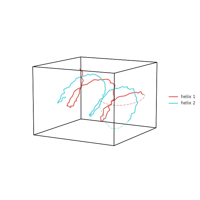
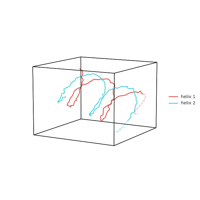
docs: regenerate plot_predict gallery (trend-extrapolating forecasts) + evidence
Gallery page rebuilt with the DotProduct+RBF+White default kernel (forecast
tails now continue each helix's sweep). Before/after evidence images in
docs/images/v1.0-predict-fix/. notes: #132 moved to the fixed list.

diff --git a/notes/issues-to-close-on-merge.md b/notes/issues-to-close-on-merge.md
@@ -52,6 +52,7 @@ Confirmed STILL_BUG at triage time; fixed during this pass. Safe to close on mer
 | 146 & 190 | n_clusters force-injected into DBSCAN/MeanShift/OPTICS (not in registry) | Replaced the hardcoded `model_name != "HDBSCAN"` exemption in `cluster/cluster.py` with a signature-based check (`inspect.signature(model)` for an `n_clusters` param) before defaulting `n_clusters` in, and registered `MeanShift`, `DBSCAN`, `OPTICS`, and `AffinityPropagation` so their string names resolve |
 | 148 | show=False leaves figure registered in pyplot | Added `plt.close(fig)` in `plot/plot.py` when `show=False` and the user did not supply their own `ax` (and the figure is a matplotlib Figure), after the save — deregisters it from `Gcf` so it won't reappear via a later `plt.show()`/notebook `flush_figures`. The returned Figure/animation stay valid and savable |
 | 214 | wiki-model docstring vs wiki_model key | Fixed `io/load.py` docstring (lines 102, 104) to read `wiki_model` (underscore), matching the actual `EXAMPLE_DATA` dict key |
+| 132 | reorder df columns by name across datasets | FIXED (2026-07-05): `format_data` now aligns named-column DataFrames BY NAME to the first dataset's column order (warns when reordering) and raises a clear ValueError when column sets differ; RangeIndex/duplicate-column frames keep positional behavior. Regression-tested (reorder, mismatch, positional passthrough) |
 | 169 | Kalman filter for missing/future data + hyp.predict | IMPLEMENTED (2026-07-05): new `hyp.predict` module (Kalman/ARIMA/GaussianProcess/AutoRegressor/Laplace/Chronos forecasters, GH#169 `t` semantics incl. DateTime, `return_model` reuse on new data, `plot(predict=..., t=...)` overlay) + new `hyp.impute` module whose KalmanImputer fills fully-NaN rows (the PPCA gap this issue describes); tutorials: stock_forecasting.ipynb + projectile_kalman.ipynb |
 | (non-issue regression) | reduce.py custom class/instance path raised UnboundLocalError | Initialized `model_params` in the `else` branch of `reduce/reduce.py` (previously undefined for non-str/dict `reduce=` args) — unblocks the "pass a custom sklearn-style class/instance" escape hatch that #162 (autoencoders) would need |
 
@@ -66,7 +67,6 @@ NOT_ADDRESSED issues, still-open STILL_BUG issues, and ADDRESSED-but-partial iss
 | 205 | support for multibyte (CJK) character labels | Still reproduces: matplotlib's default font ships no CJK glyphs (`Glyph ... missing from font(s)` warnings/tofu boxes); no `fontproperties`/font passthrough exists in `plot.py`/`matplotlib_backend.py` |
 | 177 | Google Drive + npy/npz/pkl/csv/xls/xlsx loading | Partial: Drive-by-id and npy/npz/pkl/csv/tsv/txt/json/parquet/mat all work in `io/sources.py`, but `.xls`/`.xlsx` has no branch in `_parse_payload()` and neither `openpyxl` nor `xlrd` is a dependency |
 | 174 | LDA/NMF as a `reduce()` algorithm | Cluster-side support is done (`cluster/cluster.py` `mixture_models`), but `reduce/reduce.py`'s `models` dict still has no LDA/NMF entry, so "reduce to n-dims via LDA/NMF" isn't wired in |
-| 132 | reorder df columns by name across datasets | Still reproduces: `tools/format_data.py`/`df2mat.py` align DataFrames positionally, not by column name (silently misaligns same-named-but-reordered columns); the `align`/`manip` paths via `datawrangler` are unaffected, but `normalize`/`reduce`/`cluster` are not |
 | 209 | use isinstance instead of type(x) is T | `type(x) is T` / `type(x) is not T` patterns remain across ~13 call sites: `cluster/cluster.py`, `plot/plot.py`, `plot/matplotlib_backend.py`, `reduce/describe.py`, `manip/resample.py`, `align/procrustes.py`, `align/common.py`, `align/hyperalign.py`, `align/srm.py`, `_shared/helpers.py` |
 | 199 | tests for procrustes with non-default params | No test anywhere exercises `Procrustes`/`procrustes()` with `reflection=`, `scaling=`, `oblique=`, or `reduction=` — only default-parameter calls exist |
 | 153 | align models in the `apply_model` pipeline | `apply_model()`'s registry covers reduce + cluster + mixture models but not align models (hyperalign/SRM/procrustes), so a reduce->align->reduce chain still fails with `ValueError: unknown model 'hyper'` |

diff --git a/docs/sg_execution_times.rst b/docs/sg_execution_times.rst
@@ -6,7 +6,7 @@
 
 Computation times
 =================
-**00:04.833** total execution time for 42 files **from all galleries**:
+**00:00.217** total execution time for 42 files **from all galleries**:
 
 .. container::
 
@@ -32,23 +32,8 @@ Computation times
    * - Example
      - Time
      - Mem (MB)
-   * - :ref:`sphx_glr_auto_examples_plot_interactive_backend.py` (``../examples/plot_interactive_backend.py``)
-     - 00:03.062
-     - 0.0
-   * - :ref:`sphx_glr_auto_examples_plot_impute.py` (``../examples/plot_impute.py``)
-     - 00:00.839
-     - 0.0
-   * - :ref:`sphx_glr_auto_examples_plot_apply_model.py` (``../examples/plot_apply_model.py``)
-     - 00:00.611
-     - 0.0
-   * - :ref:`sphx_glr_auto_examples_plot_nested_lists.py` (``../examples/plot_nested_lists.py``)
-     - 00:00.123
-     - 0.0
    * - :ref:`sphx_glr_auto_examples_plot_predict.py` (``../examples/plot_predict.py``)
-     - 00:00.111
-     - 0.0
-   * - :ref:`sphx_glr_auto_examples_plot_mixture_models.py` (``../examples/plot_mixture_models.py``)
-     - 00:00.088
+     - 00:00.217
      - 0.0
    * - :ref:`sphx_glr_auto_examples_analyze.py` (``../examples/analyze.py``)
      - 00:00.000
@@ -86,6 +71,9 @@ Computation times
    * - :ref:`sphx_glr_auto_examples_plot_align.py` (``../examples/plot_align.py``)
      - 00:00.000
      - 0.0
+   * - :ref:`sphx_glr_auto_examples_plot_apply_model.py` (``../examples/plot_apply_model.py``)
+     - 00:00.000
+     - 0.0
    * - :ref:`sphx_glr_auto_examples_plot_basic.py` (``../examples/plot_basic.py``)
      - 00:00.000
      - 0.0
@@ -119,6 +107,12 @@ Computation times
    * - :ref:`sphx_glr_auto_examples_plot_hue.py` (``../examples/plot_hue.py``)
      - 00:00.000
      - 0.0
+   * - :ref:`sphx_glr_auto_examples_plot_impute.py` (``../examples/plot_impute.py``)
+     - 00:00.000
+     - 0.0
+   * - :ref:`sphx_glr_auto_examples_plot_interactive_backend.py` (``../examples/plot_interactive_backend.py``)
+     - 00:00.000
+     - 0.0
    * - :ref:`sphx_glr_auto_examples_plot_labels.py` (``../examples/plot_labels.py``)
      - 00:00.000
      - 0.0
@@ -128,7 +122,13 @@ Computation times
    * - :ref:`sphx_glr_auto_examples_plot_missing_data.py` (``../examples/plot_missing_data.py``)
      - 00:00.000
      - 0.0
+   * - :ref:`sphx_glr_auto_examples_plot_mixture_models.py` (``../examples/plot_mixture_models.py``)
+     - 00:00.000
+     - 0.0
    * - :ref:`sphx_glr_auto_examples_plot_multicolored_lines.py` (``../examples/plot_multicolored_lines.py``)
+     - 00:00.000
+     - 0.0
+   * - :ref:`sphx_glr_auto_examples_plot_nested_lists.py` (``../examples/plot_nested_lists.py``)
      - 00:00.000
      - 0.0
    * - :ref:`sphx_glr_auto_examples_plot_normalize.py` (``../examples/plot_normalize.py``)

diff --git a/docs/auto_examples/sg_execution_times.rst b/docs/auto_examples/sg_execution_times.rst
@@ -6,7 +6,7 @@
 
 Computation times
 =================
-**00:04.833** total execution time for 42 files **from auto_examples**:
+**00:00.217** total execution time for 42 files **from auto_examples**:
 
 .. container::
 
@@ -32,23 +32,8 @@ Computation times
    * - Example
      - Time
      - Mem (MB)
-   * - :ref:`sphx_glr_auto_examples_plot_interactive_backend.py` (``plot_interactive_backend.py``)
-     - 00:03.062
-     - 0.0
-   * - :ref:`sphx_glr_auto_examples_plot_impute.py` (``plot_impute.py``)
-     - 00:00.839
-     - 0.0
-   * - :ref:`sphx_glr_auto_examples_plot_apply_model.py` (``plot_apply_model.py``)
-     - 00:00.611
-     - 0.0
-   * - :ref:`sphx_glr_auto_examples_plot_nested_lists.py` (``plot_nested_lists.py``)
-     - 00:00.123
-     - 0.0
    * - :ref:`sphx_glr_auto_examples_plot_predict.py` (``plot_predict.py``)
-     - 00:00.111
-     - 0.0
-   * - :ref:`sphx_glr_auto_examples_plot_mixture_models.py` (``plot_mixture_models.py``)
-     - 00:00.088
+     - 00:00.217
      - 0.0
    * - :ref:`sphx_glr_auto_examples_analyze.py` (``analyze.py``)
      - 00:00.000
@@ -86,6 +71,9 @@ Computation times
    * - :ref:`sphx_glr_auto_examples_plot_align.py` (``plot_align.py``)
      - 00:00.000
      - 0.0
+   * - :ref:`sphx_glr_auto_examples_plot_apply_model.py` (``plot_apply_model.py``)
+     - 00:00.000
+     - 0.0
    * - :ref:`sphx_glr_auto_examples_plot_basic.py` (``plot_basic.py``)
      - 00:00.000
      - 0.0
@@ -119,6 +107,12 @@ Computation times
    * - :ref:`sphx_glr_auto_examples_plot_hue.py` (``plot_hue.py``)
      - 00:00.000
      - 0.0
+   * - :ref:`sphx_glr_auto_examples_plot_impute.py` (``plot_impute.py``)
+     - 00:00.000
+     - 0.0
+   * - :ref:`sphx_glr_auto_examples_plot_interactive_backend.py` (``plot_interactive_backend.py``)
+     - 00:00.000
+     - 0.0
    * - :ref:`sphx_glr_auto_examples_plot_labels.py` (``plot_labels.py``)
      - 00:00.000
      - 0.0
@@ -128,7 +122,13 @@ Computation times
    * - :ref:`sphx_glr_auto_examples_plot_missing_data.py` (``plot_missing_data.py``)
      - 00:00.000
      - 0.0
+   * - :ref:`sphx_glr_auto_examples_plot_mixture_models.py` (``plot_mixture_models.py``)
+     - 00:00.000
+     - 0.0
    * - :ref:`sphx_glr_auto_examples_plot_multicolored_lines.py` (``plot_multicolored_lines.py``)
+     - 00:00.000
+     - 0.0
+   * - :ref:`sphx_glr_auto_examples_plot_nested_lists.py` (``plot_nested_lists.py``)
      - 00:00.000
      - 0.0
    * - :ref:`sphx_glr_auto_examples_plot_normalize.py` (``plot_normalize.py``)

diff --git a/docs/auto_examples/plot_predict.rst b/docs/auto_examples/plot_predict.rst
@@ -83,7 +83,7 @@ re-estimating) on new data.
 
 .. rst-class:: sphx-glr-timing
 
-   **Total running time of the script:** (0 minutes 0.111 seconds)
+   **Total running time of the script:** (0 minutes 0.217 seconds)
 
 
 .. _sphx_glr_download_auto_examples_plot_predict.py:
